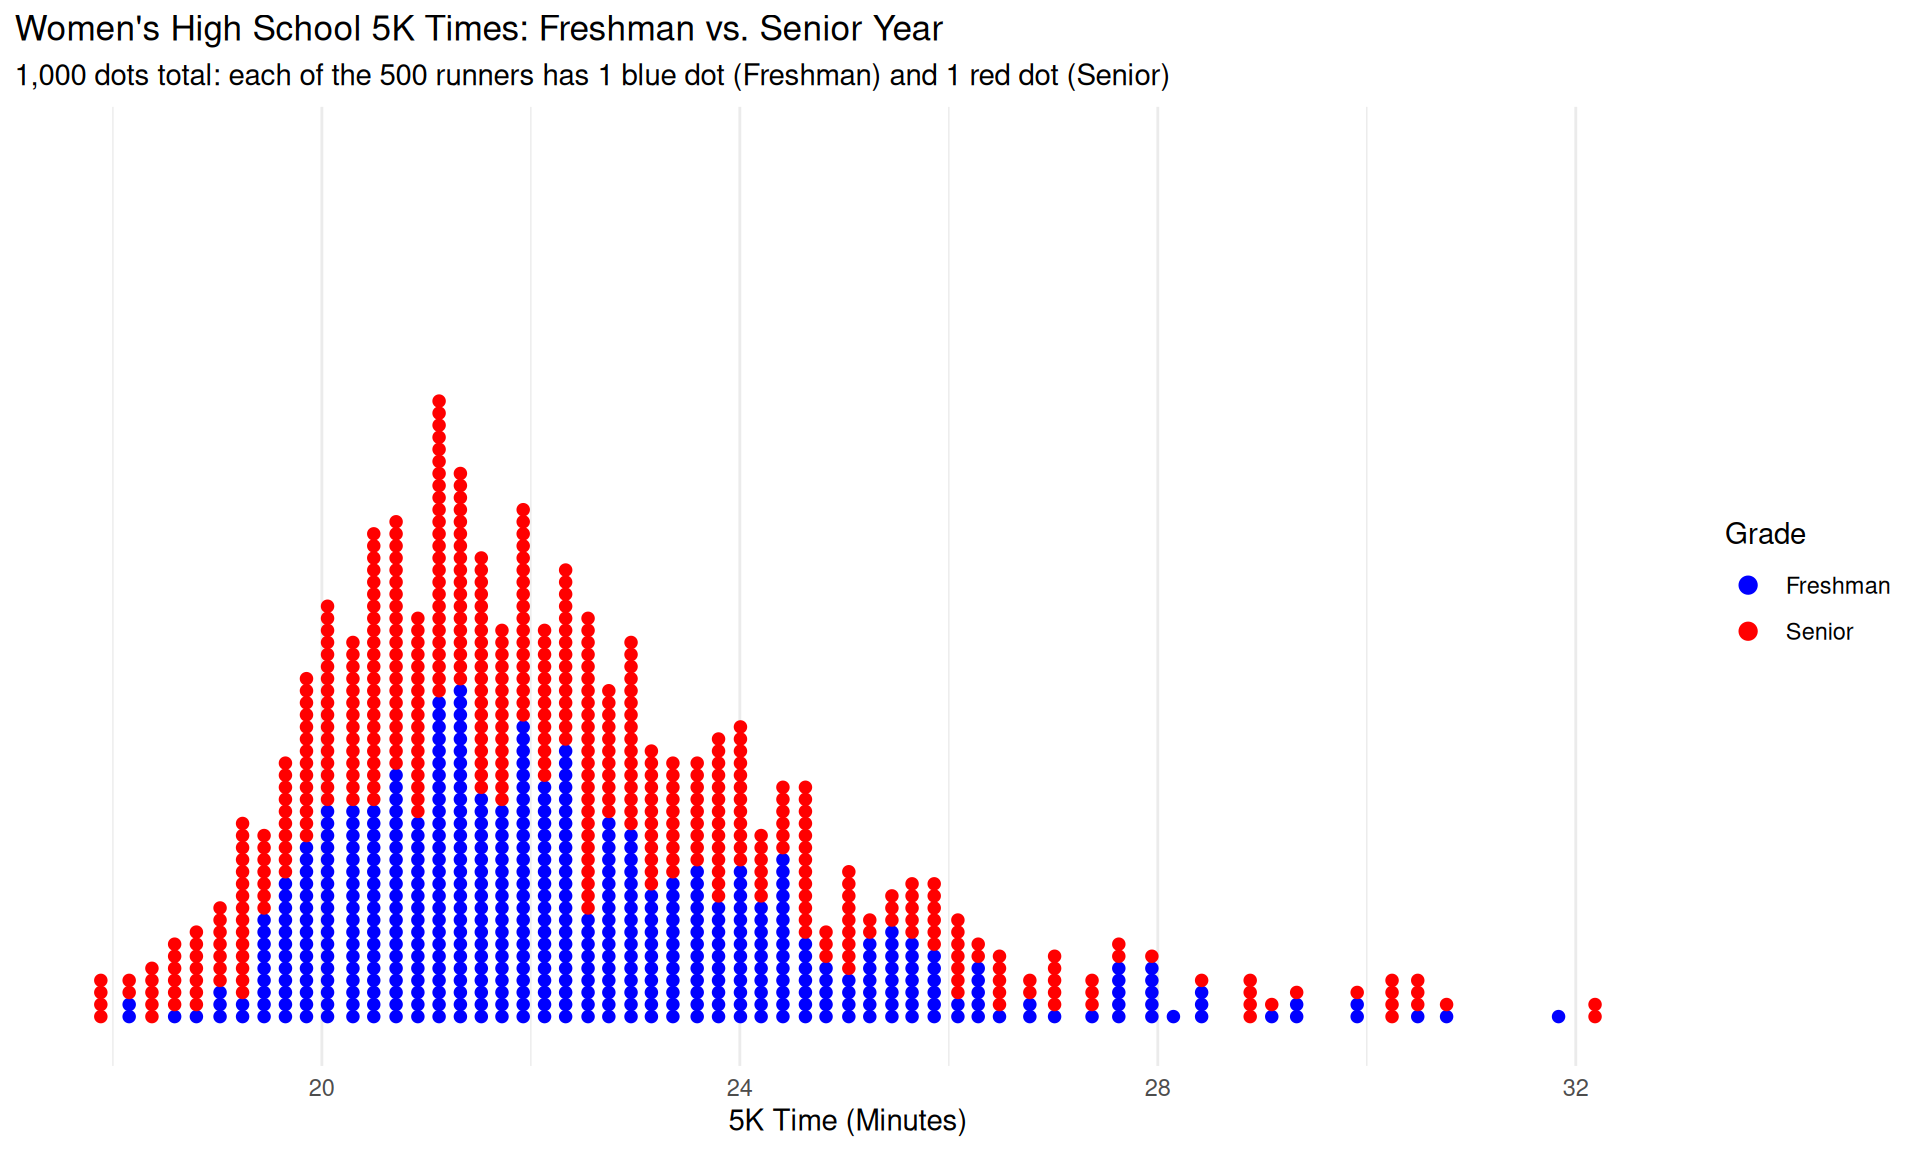
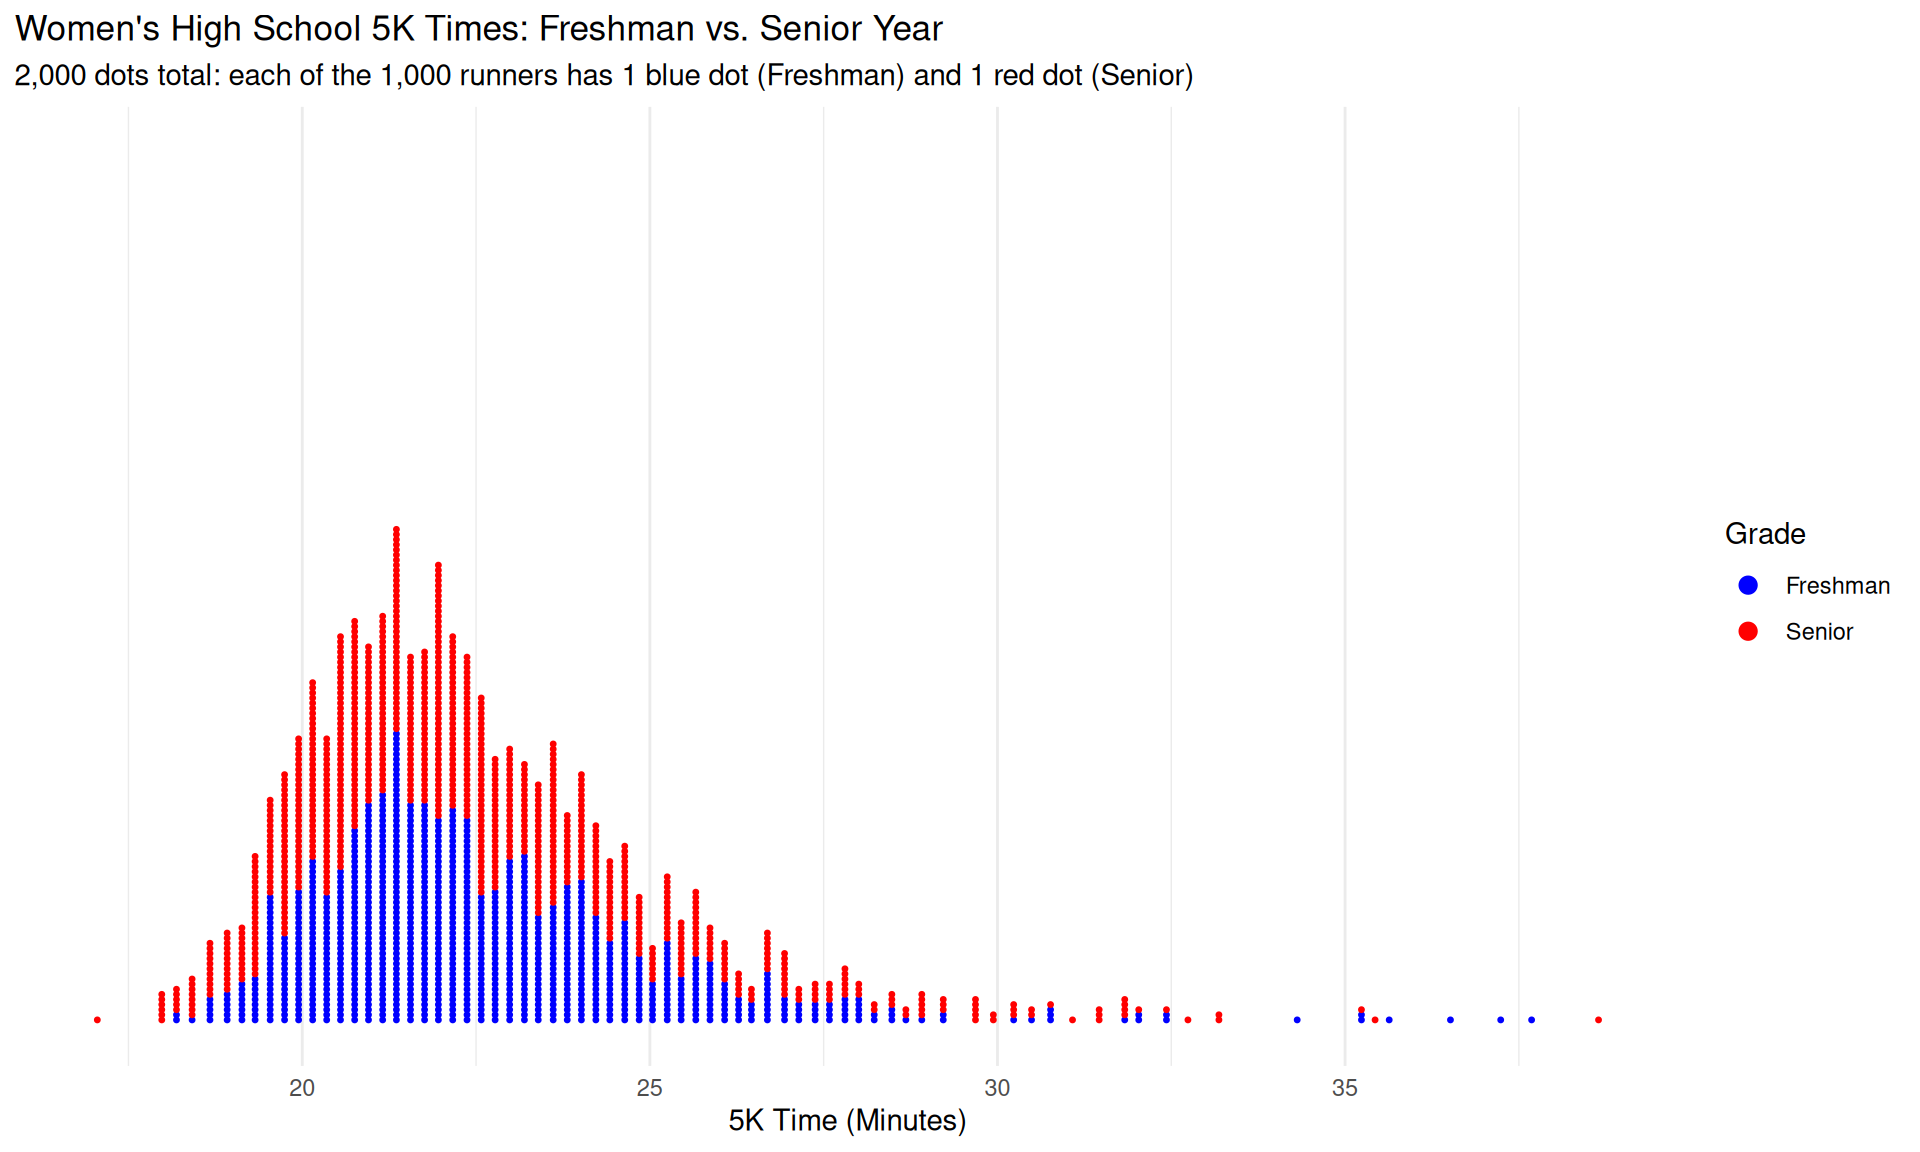
new graphs

diff --git a/_site/index.html b/_site/index.html
@@ -162,13 +162,13 @@ ul.task-list li input[type="checkbox"] {
 <tbody>
 <tr class="odd">
 <td style="text-align: left;">Men</td>
-<td style="text-align: left;">19:29 (19.48 min)</td>
-<td style="text-align: left;">18:17 (18.28 min)</td>
+<td style="text-align: left;">19:34 (19.56 min)</td>
+<td style="text-align: left;">18:22 (18.36 min)</td>
 </tr>
 <tr class="even">
 <td style="text-align: left;">Women</td>
+<td style="text-align: left;">22:36 (22.61 min)</td>
 <td style="text-align: left;">22:28 (22.46 min)</td>
-<td style="text-align: left;">22:19 (22.31 min)</td>
 </tr>
 </tbody>
 </table>
@@ -202,7 +202,7 @@ ul.task-list li input[type="checkbox"] {
 <section id="summary" class="level2">
 <h2 class="anchored" data-anchor-id="summary">Summary</h2>
 <p>Comparing the two distributions reveals a clear difference in average 5K time improvement between men and women from freshman to senior year. Men improved substantially on average, dropping <strong>1 minute and 12 seconds</strong> from <strong>19:29</strong> as freshmen to <strong>18:17</strong> as seniors (with 88% of male runners recording a faster senior time, visible in the clear leftward shift of the red dots). In contrast, women showed a much smaller average improvement of <strong>9 seconds</strong>, moving from <strong>22:28</strong> to <strong>22:19</strong> (with 57% running faster as seniors and the freshman and senior distributions largely overlapping).</p>
-<p><strong>Data Source:</strong> Ohio High School Athletic Association (OHSAA) District Cross Country Championship results (2014–2019), archived on <a href="https://www.baumspage.com/cc/index.php">Baum’s Page</a>.</p>
+<p><strong>Data Source:</strong> Ohio High School Athletic Association (OHSAA) District Cross Country Championship results (2011–2020), archived on <a href="https://www.baumspage.com/cc/index.php">Baum’s Page</a>.</p>
 
 
 </section>
